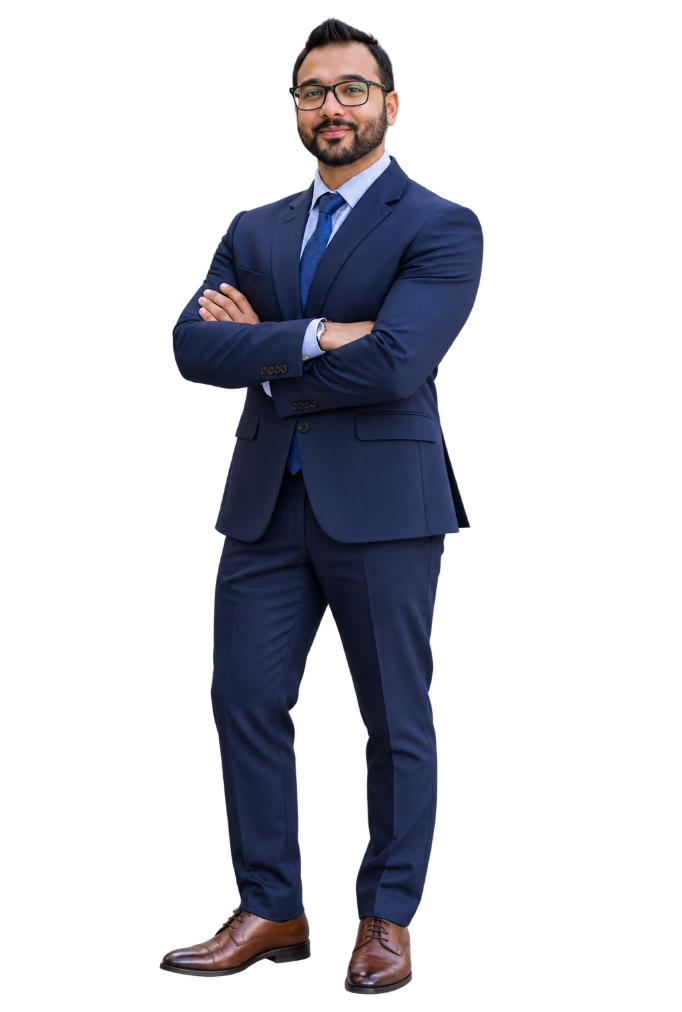
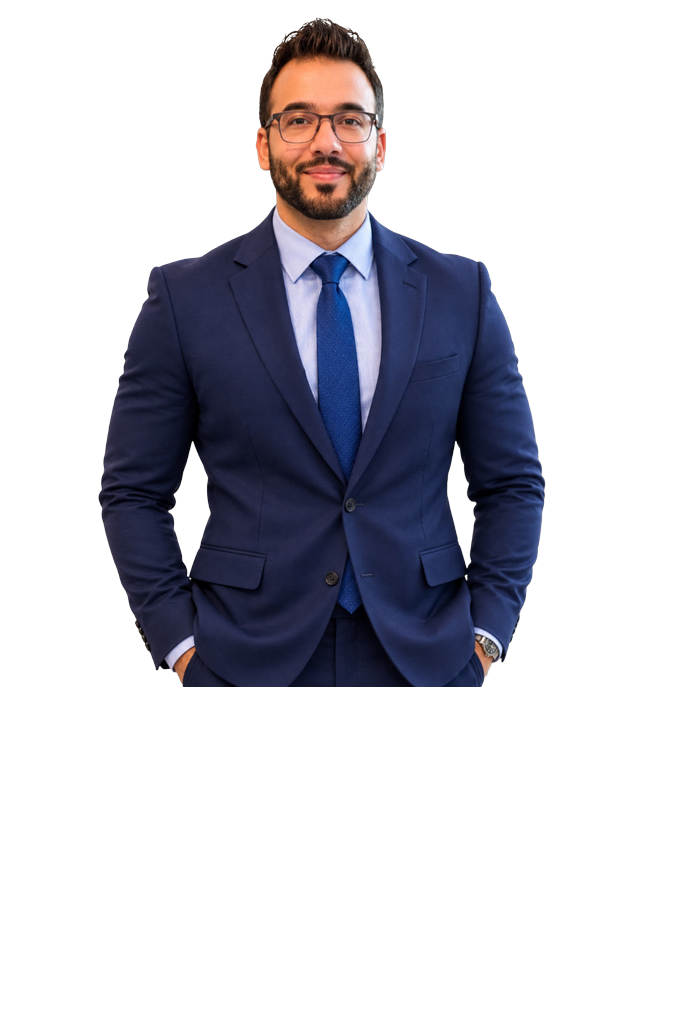
Replace Saad's HIGH OCTANE portrait with the approved photograph.
The new cutout is fitted onto the existing portrait canvases and the image URLs are versioned so cached copies are not reused.

Changed region(s): [[0.1232, 0.0, 0.8006, 1.0]]

diff --git a/src/lib/tenancy/templates/resolve-royal-collection-view.ts b/src/lib/tenancy/templates/resolve-royal-collection-view.ts
@@ -166,11 +166,11 @@ const HIGH_OCTANE_BROKERAGE_ADDRESS = "5111 New St.\nBurlington, ON, L7L1V2";
  * Another workspace never receives it.
  */
 export const HIGH_OCTANE_APPROVED_AGENT_PORTRAIT_URL =
-  "/media/royal-collection/high-octane/saad-qureshi-portrait.png?v=3";
+  "/media/royal-collection/high-octane/saad-qureshi-portrait.png?v=4";
 
 /** Full-length cutout. Phone about panel only. */
 const HIGH_OCTANE_FULL_BODY_PORTRAIT_URL =
-  "/media/royal-collection/high-octane/saad-qureshi-portrait-full.png";
+  "/media/royal-collection/high-octane/saad-qureshi-portrait-full.png?v=1";
 
 const HIGH_OCTANE_HERO_PORTRAIT_COPY = {
   name: "Saad Qureshi",

diff --git a/scripts/royal-collection-signature-one-selftest.ts b/scripts/royal-collection-signature-one-selftest.ts
@@ -275,7 +275,7 @@ assert.equal(
 );
 assert.equal(
   highOctaneWorkspace.mobileAboutPortraitUrl,
-  "/media/royal-collection/high-octane/saad-qureshi-portrait-full.png",
+  "/media/royal-collection/high-octane/saad-qureshi-portrait-full.png?v=1",
 );
 assert.equal(
   highOctaneWorkspace.brokerage.logoUrl,
@@ -293,7 +293,7 @@ for (const rel of [
   highOctaneWorkspace.mobileAboutPortraitUrl,
   highOctaneWorkspace.brokerage.logoUrl,
 ]) {
-  const file = rel.slice(1);
+  const file = rel.slice(1).split("?")[0];
   assert.equal(existsSync(join(root, "public", file)), true, rel);
 }
 assert.deepEqual(

diff --git a/scripts/high-octane-staging-presentation-selftest.ts b/scripts/high-octane-staging-presentation-selftest.ts
@@ -157,7 +157,7 @@ assert.equal(
 );
 assert.equal(
   stagingView.mobileAboutPortraitUrl,
-  "/media/royal-collection/high-octane/saad-qureshi-portrait-full.png",
+  "/media/royal-collection/high-octane/saad-qureshi-portrait-full.png?v=1",
 );
 assert.deepEqual(
   stagingView.collectionCards?.map((card) => ({

diff --git a/scripts/high-octane-production-template-selftest.ts b/scripts/high-octane-production-template-selftest.ts
@@ -182,7 +182,7 @@ assert.equal(
 );
 assert.equal(
   highOctane.mobileAboutPortraitUrl,
-  "/media/royal-collection/high-octane/saad-qureshi-portrait-full.png",
+  "/media/royal-collection/high-octane/saad-qureshi-portrait-full.png?v=1",
 );
 assert.equal(
   highOctane.brokerage.logoUrl,
